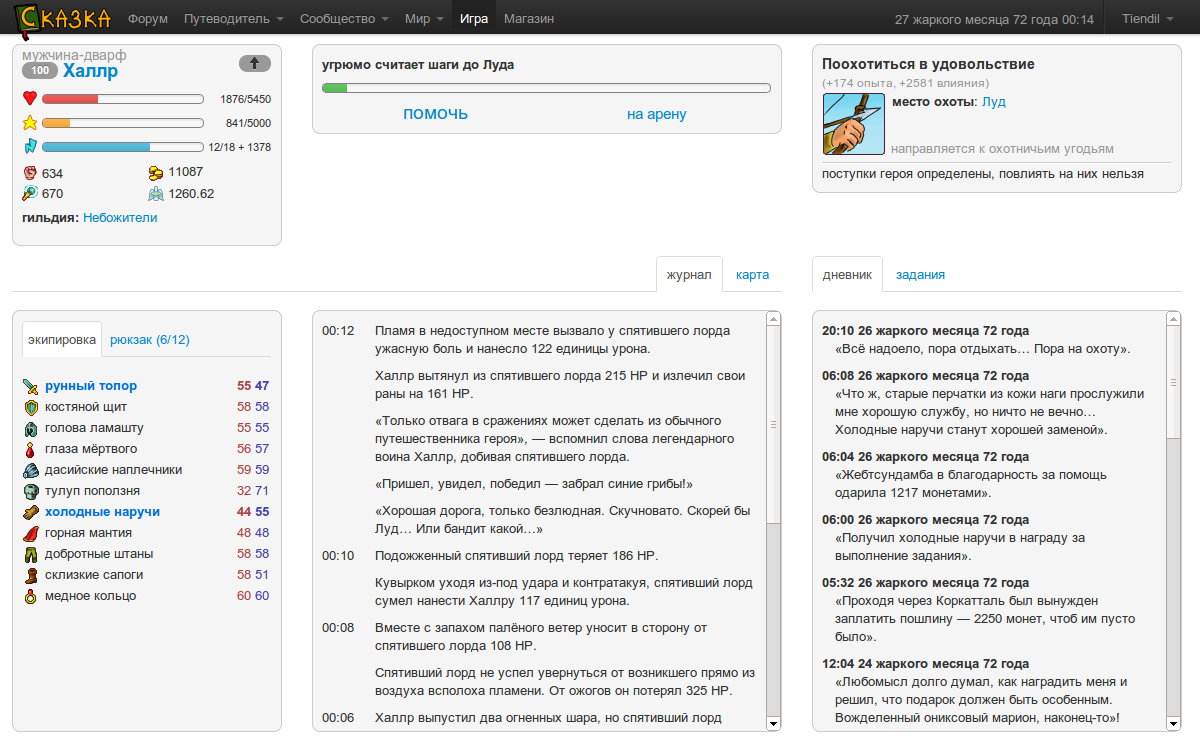
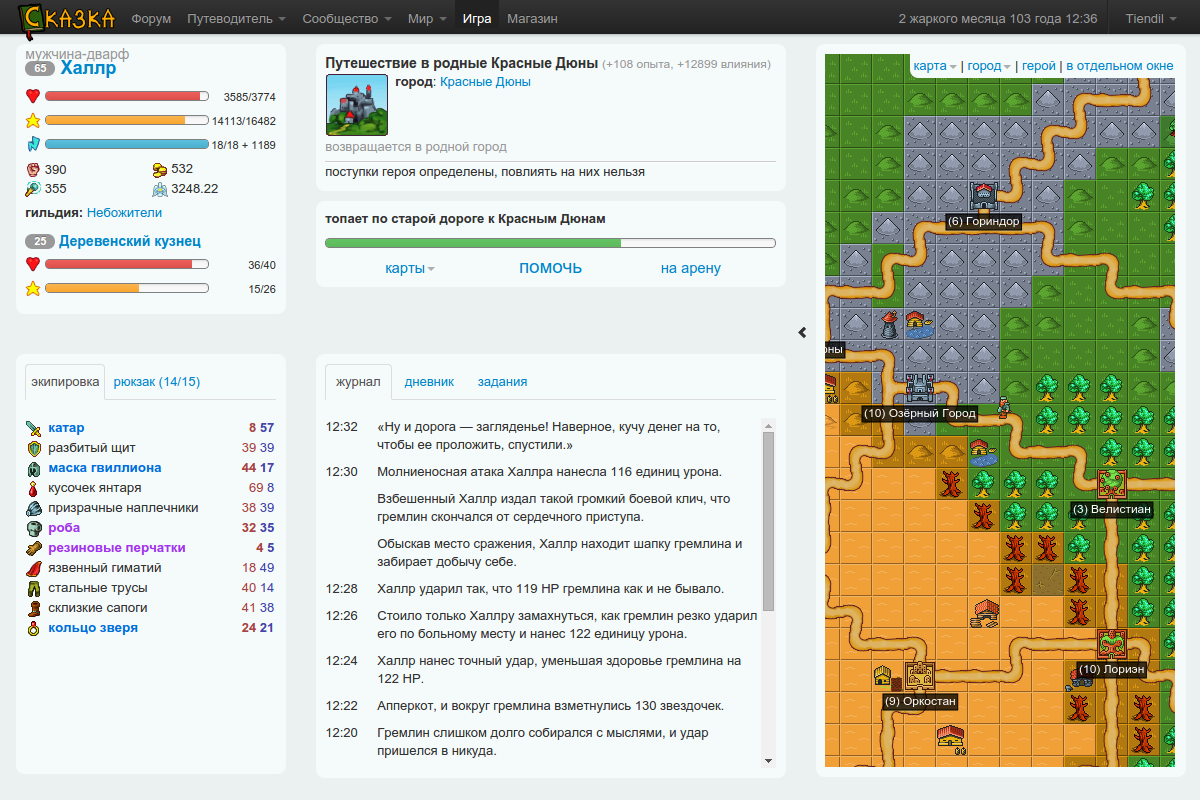
gh-1400 обновить скриншоты игры в press kit

diff --git a/the_tale/guide/templates/press_kit.html b/the_tale/guide/templates/press_kit.html
@@ -96,7 +96,7 @@
 
 <br/><br/>
 
-<h5>Снимок страницы игры (1200x750)</h5>
+<h5>Снимок страницы игры (1200x800)</h5>
 
 <a href="{{STATIC_CONTENT}}images/press_kit/screenshot_1.png" target="_blank">
  <img src="{{STATIC_CONTENT}}images/press_kit/screenshot_1.png" alt="Снимок страницы игры №1" width="250px" heigth="250px"/>
@@ -104,7 +104,7 @@
 
 <br/><br/>
 
-<h5>Снимок страницы игры (1200x750)</h5>
+<h5>Снимок страницы игры (1200x800)</h5>
 
 <a href="{{STATIC_CONTENT}}images/press_kit/screenshot_2.png" target="_blank">
  <img src="{{STATIC_CONTENT}}images/press_kit/screenshot_2.png" alt="Снимок страницы игры №2" width="250px" heigth="250px"/>
